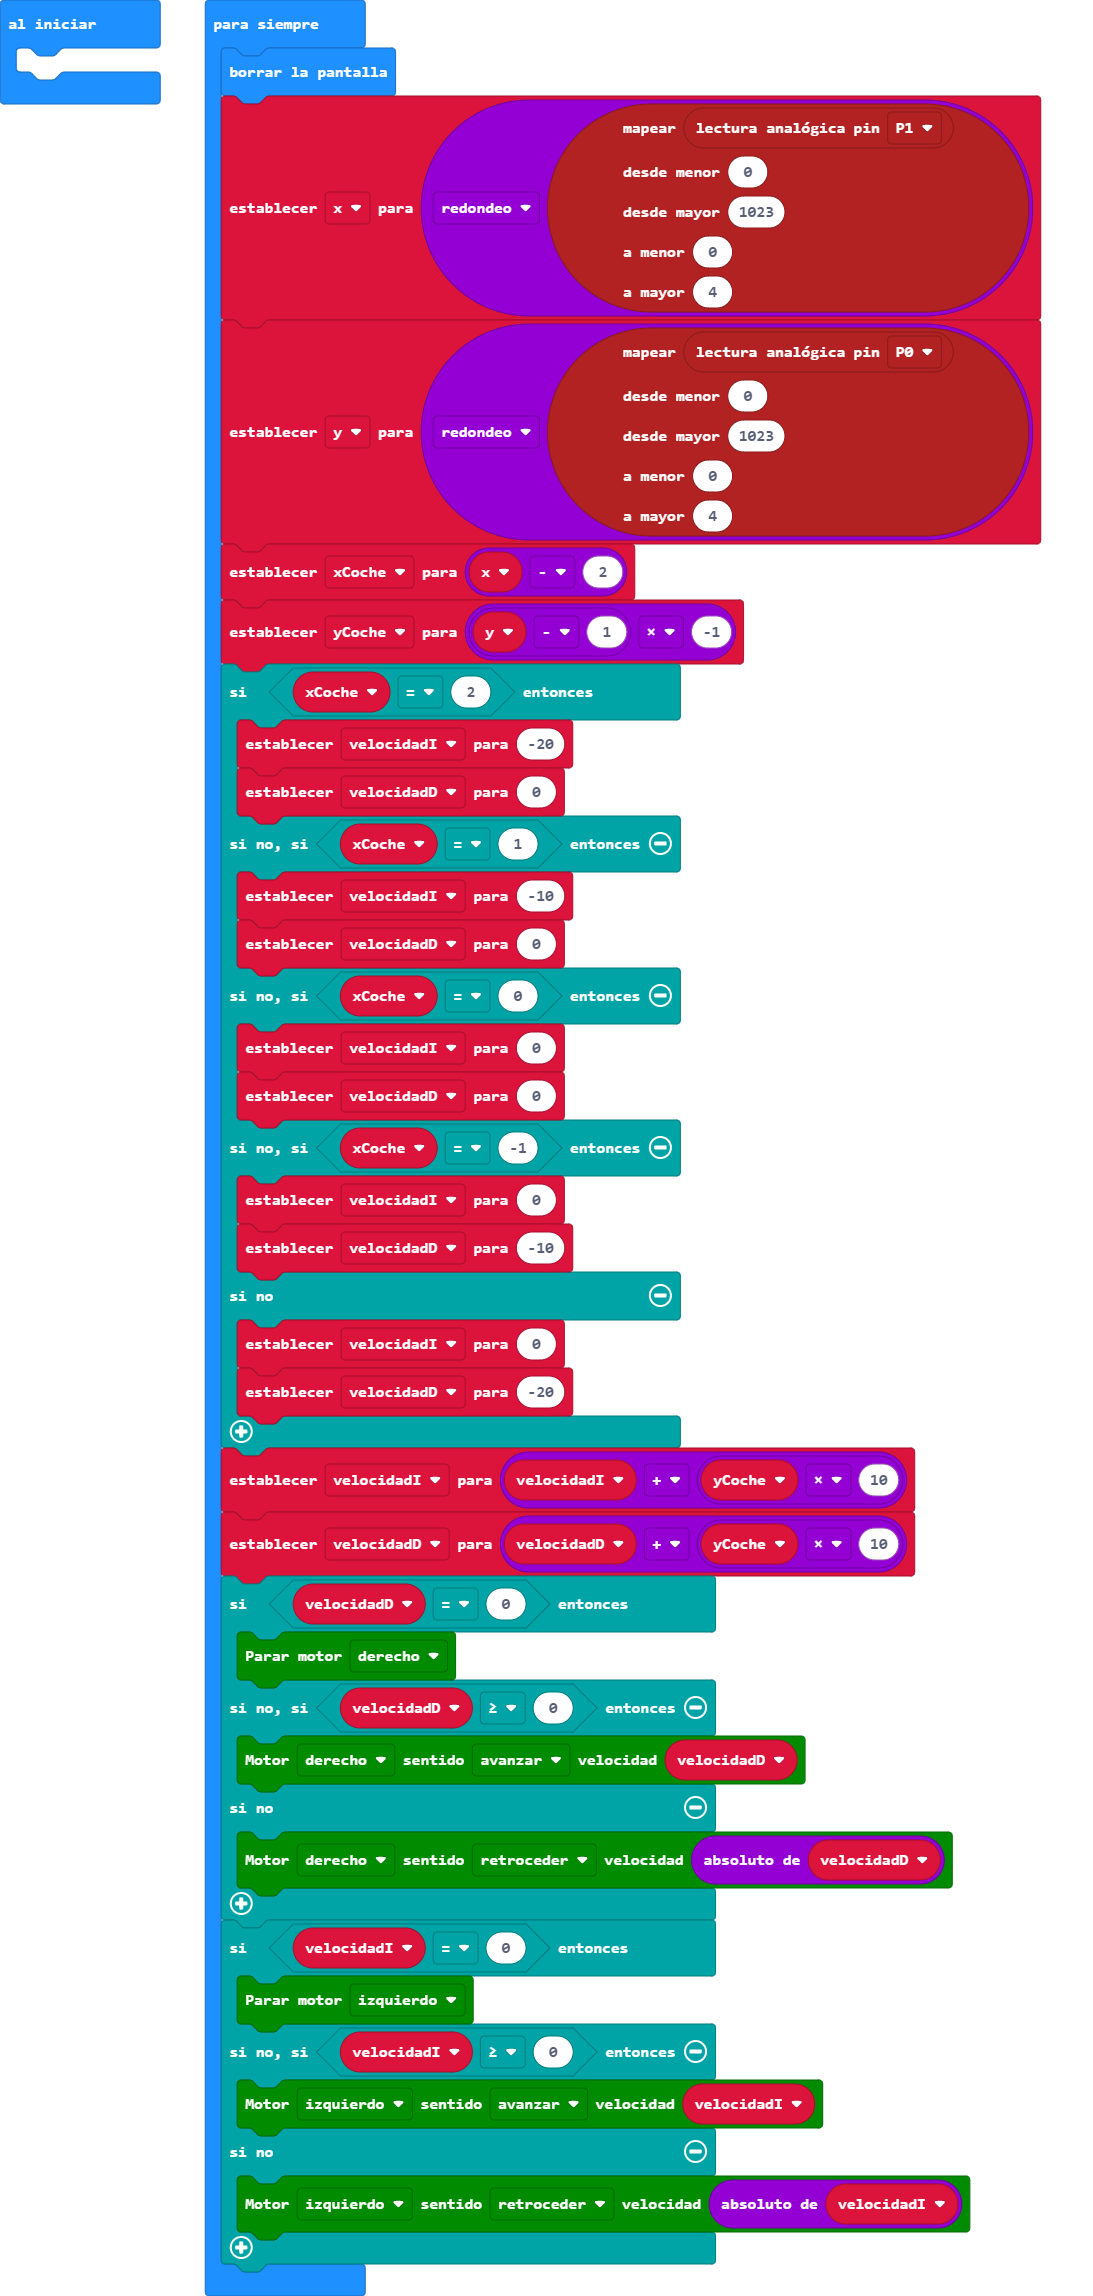
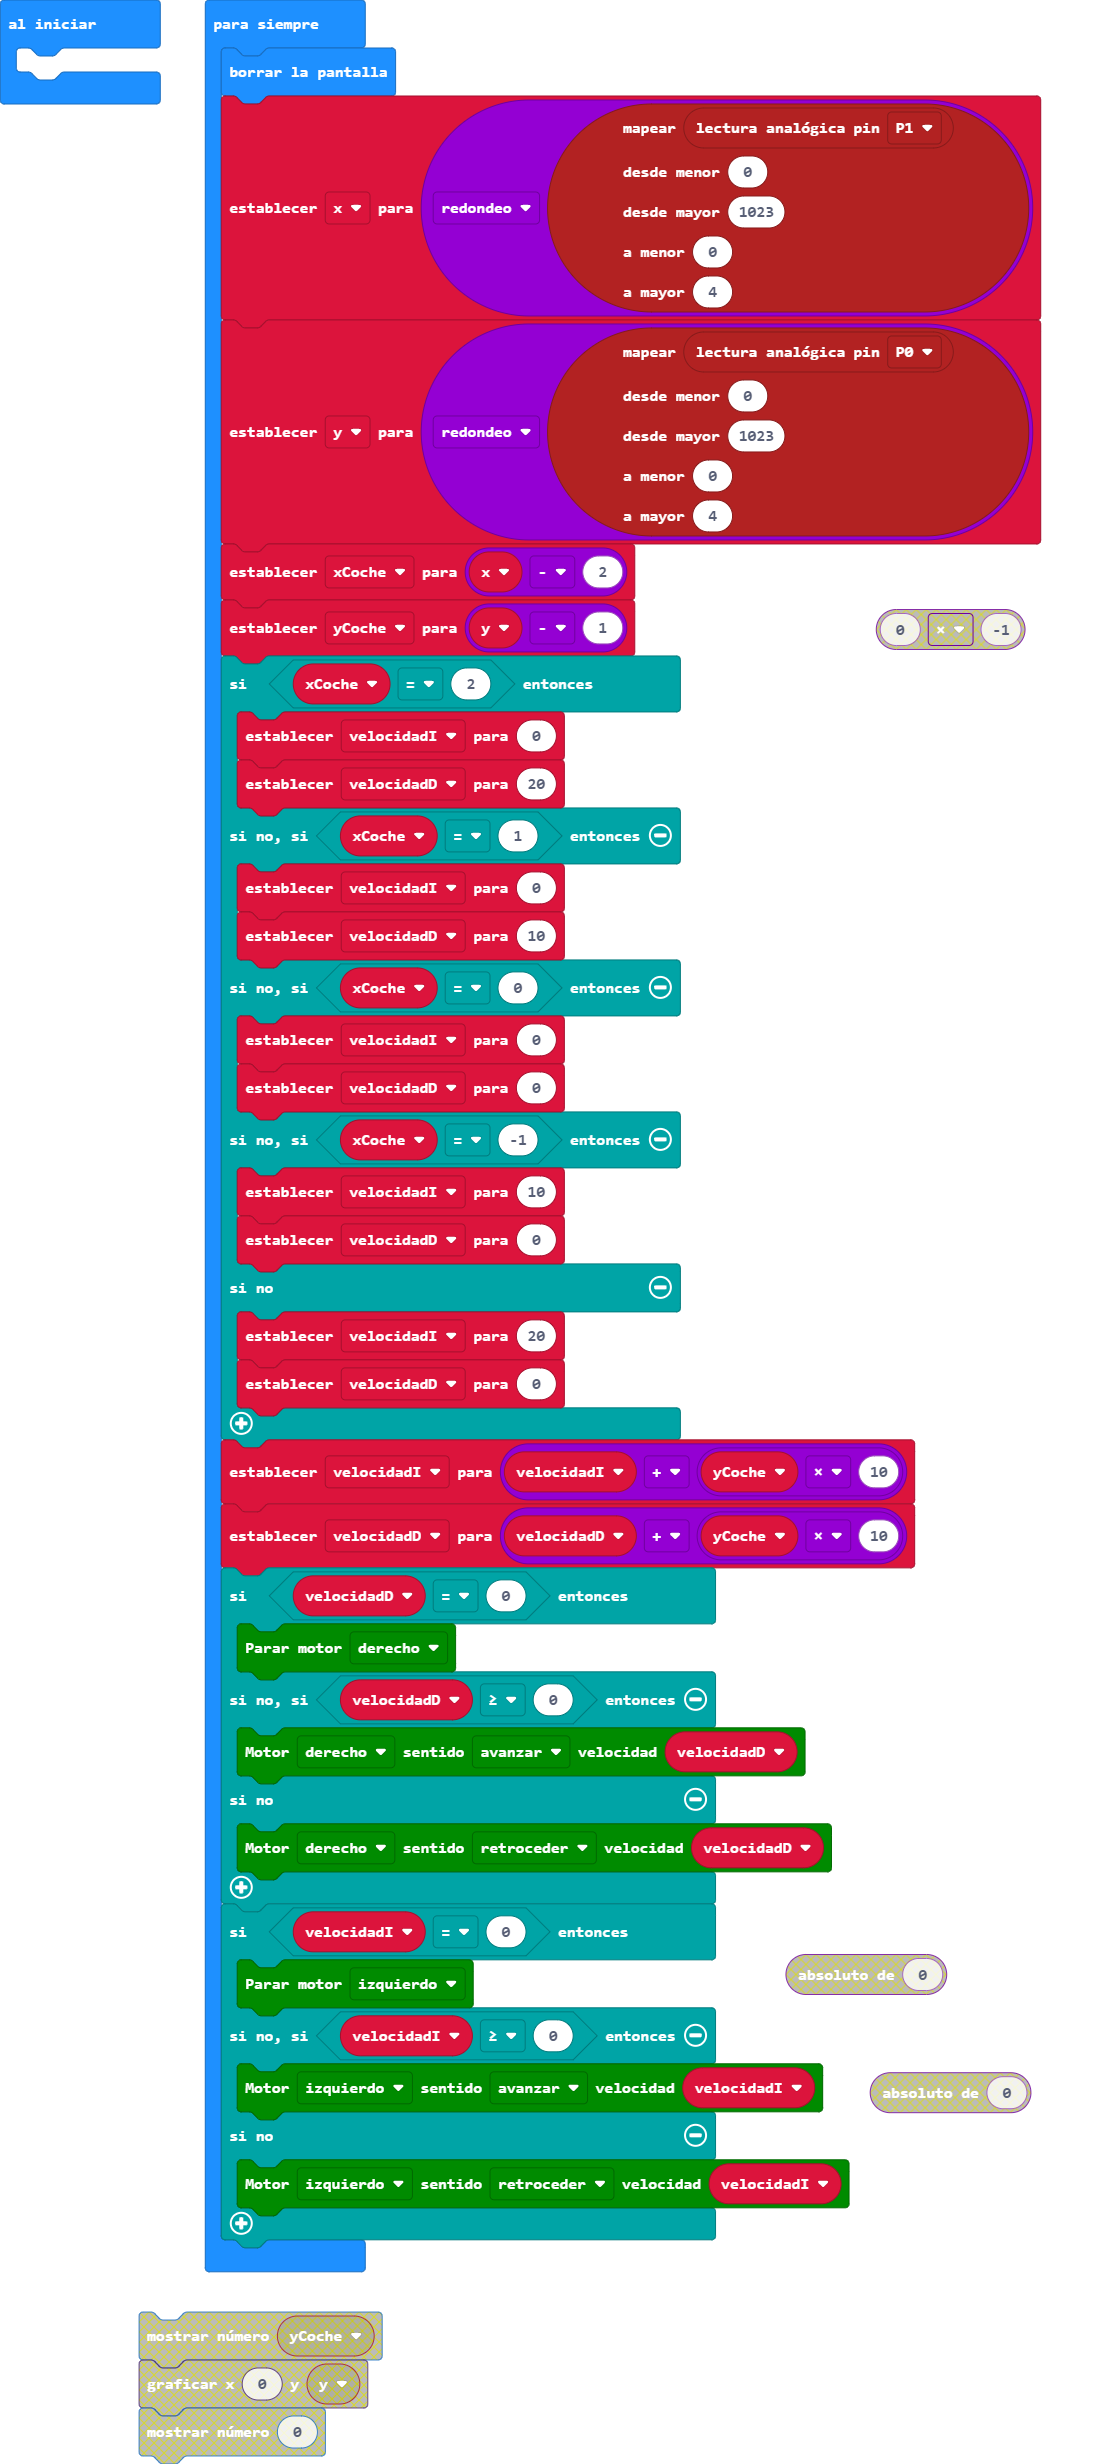
Actualizar main.blocks, main.ts

diff --git a/main.ts b/main.ts
@@ -21,22 +21,22 @@ basic.forever(function () {
     4
     ))
     xCoche = x - 2
-    yCoche = (y - 1) * -1
+    yCoche = y - 1
     if (xCoche == 2) {
-        velocidadI = -20
-        velocidadD = 0
+        velocidadI = 0
+        velocidadD = 20
     } else if (xCoche == 1) {
-        velocidadI = -10
-        velocidadD = 0
+        velocidadI = 0
+        velocidadD = 10
     } else if (xCoche == 0) {
         velocidadI = 0
         velocidadD = 0
     } else if (xCoche == -1) {
-        velocidadI = 0
-        velocidadD = -10
+        velocidadI = 10
+        velocidadD = 0
     } else {
-        velocidadI = 0
-        velocidadD = -20
+        velocidadI = 20
+        velocidadD = 0
     }
     velocidadI = velocidadI + yCoche * 10
     velocidadD = velocidadD + yCoche * 10
@@ -45,13 +45,13 @@ basic.forever(function () {
     } else if (velocidadD >= 0) {
         maqueen.motorRun(maqueen.Motors.M2, maqueen.Dir.CW, velocidadD)
     } else {
-        maqueen.motorRun(maqueen.Motors.M2, maqueen.Dir.CCW, Math.abs(velocidadD))
+        maqueen.motorRun(maqueen.Motors.M2, maqueen.Dir.CCW, velocidadD)
     }
     if (velocidadI == 0) {
         maqueen.motorStop(maqueen.Motors.M1)
     } else if (velocidadI >= 0) {
         maqueen.motorRun(maqueen.Motors.M1, maqueen.Dir.CW, velocidadI)
     } else {
-        maqueen.motorRun(maqueen.Motors.M1, maqueen.Dir.CCW, Math.abs(velocidadI))
+        maqueen.motorRun(maqueen.Motors.M1, maqueen.Dir.CCW, velocidadI)
     }
 })
